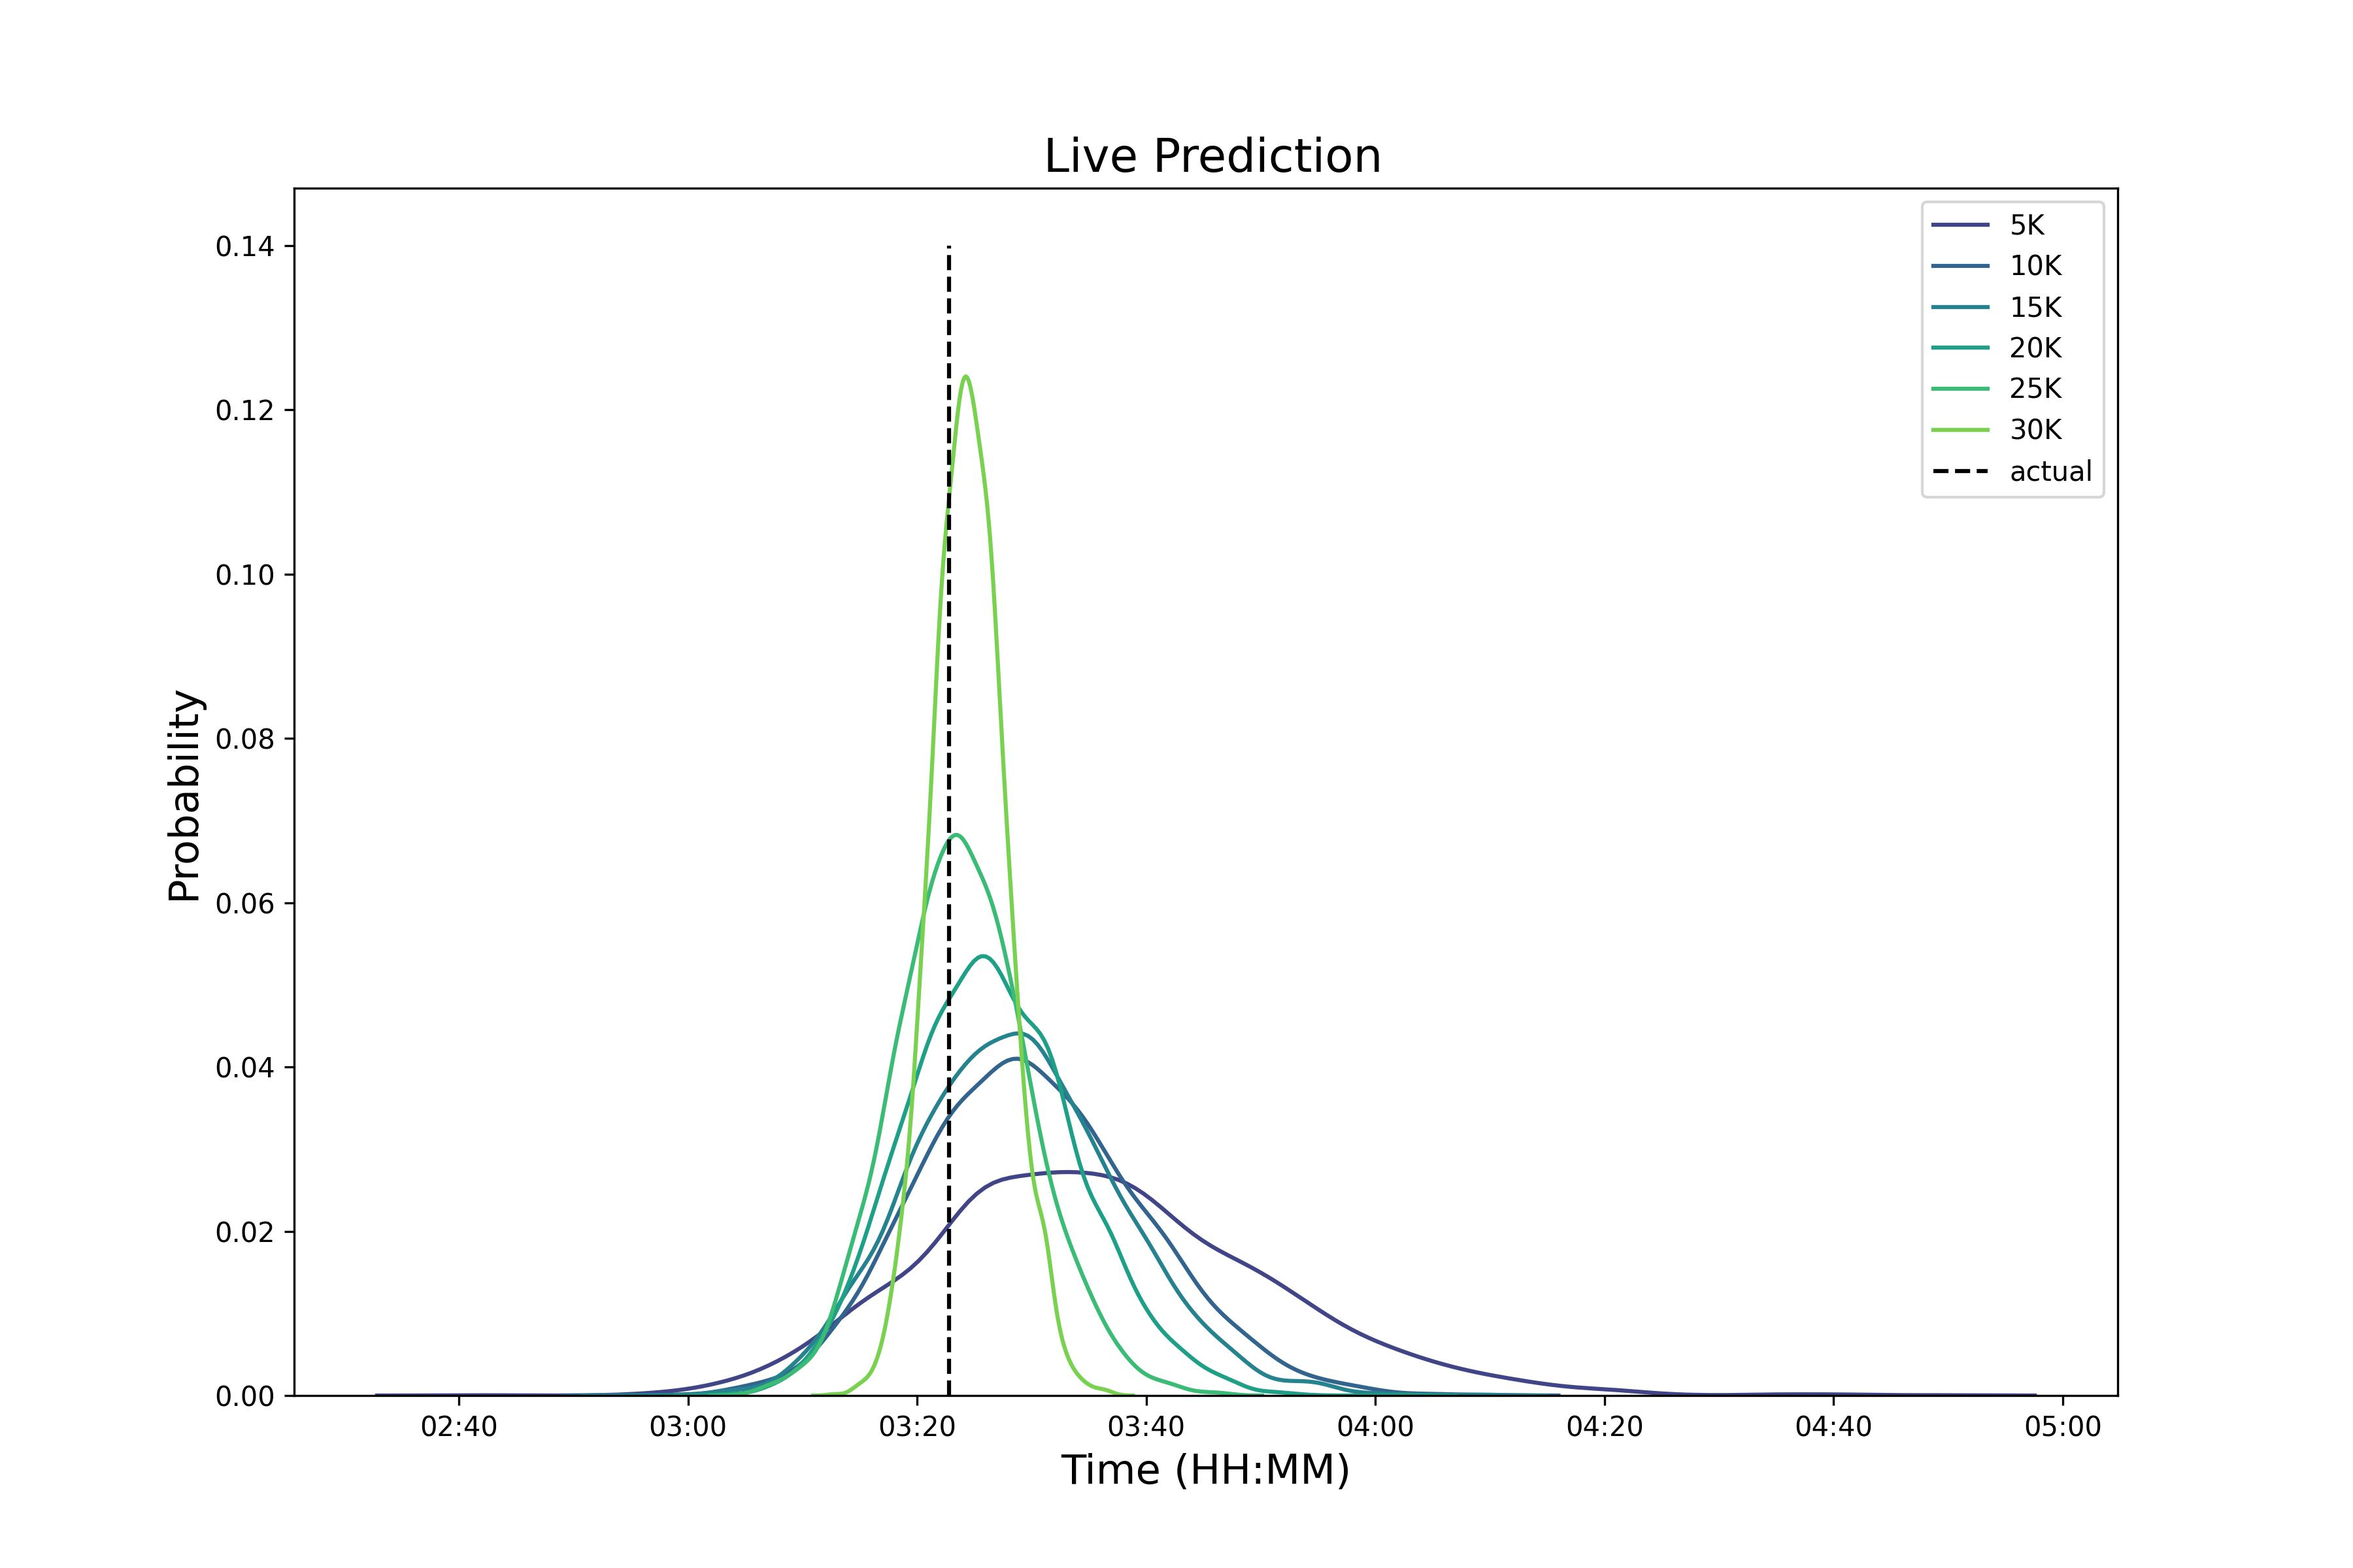
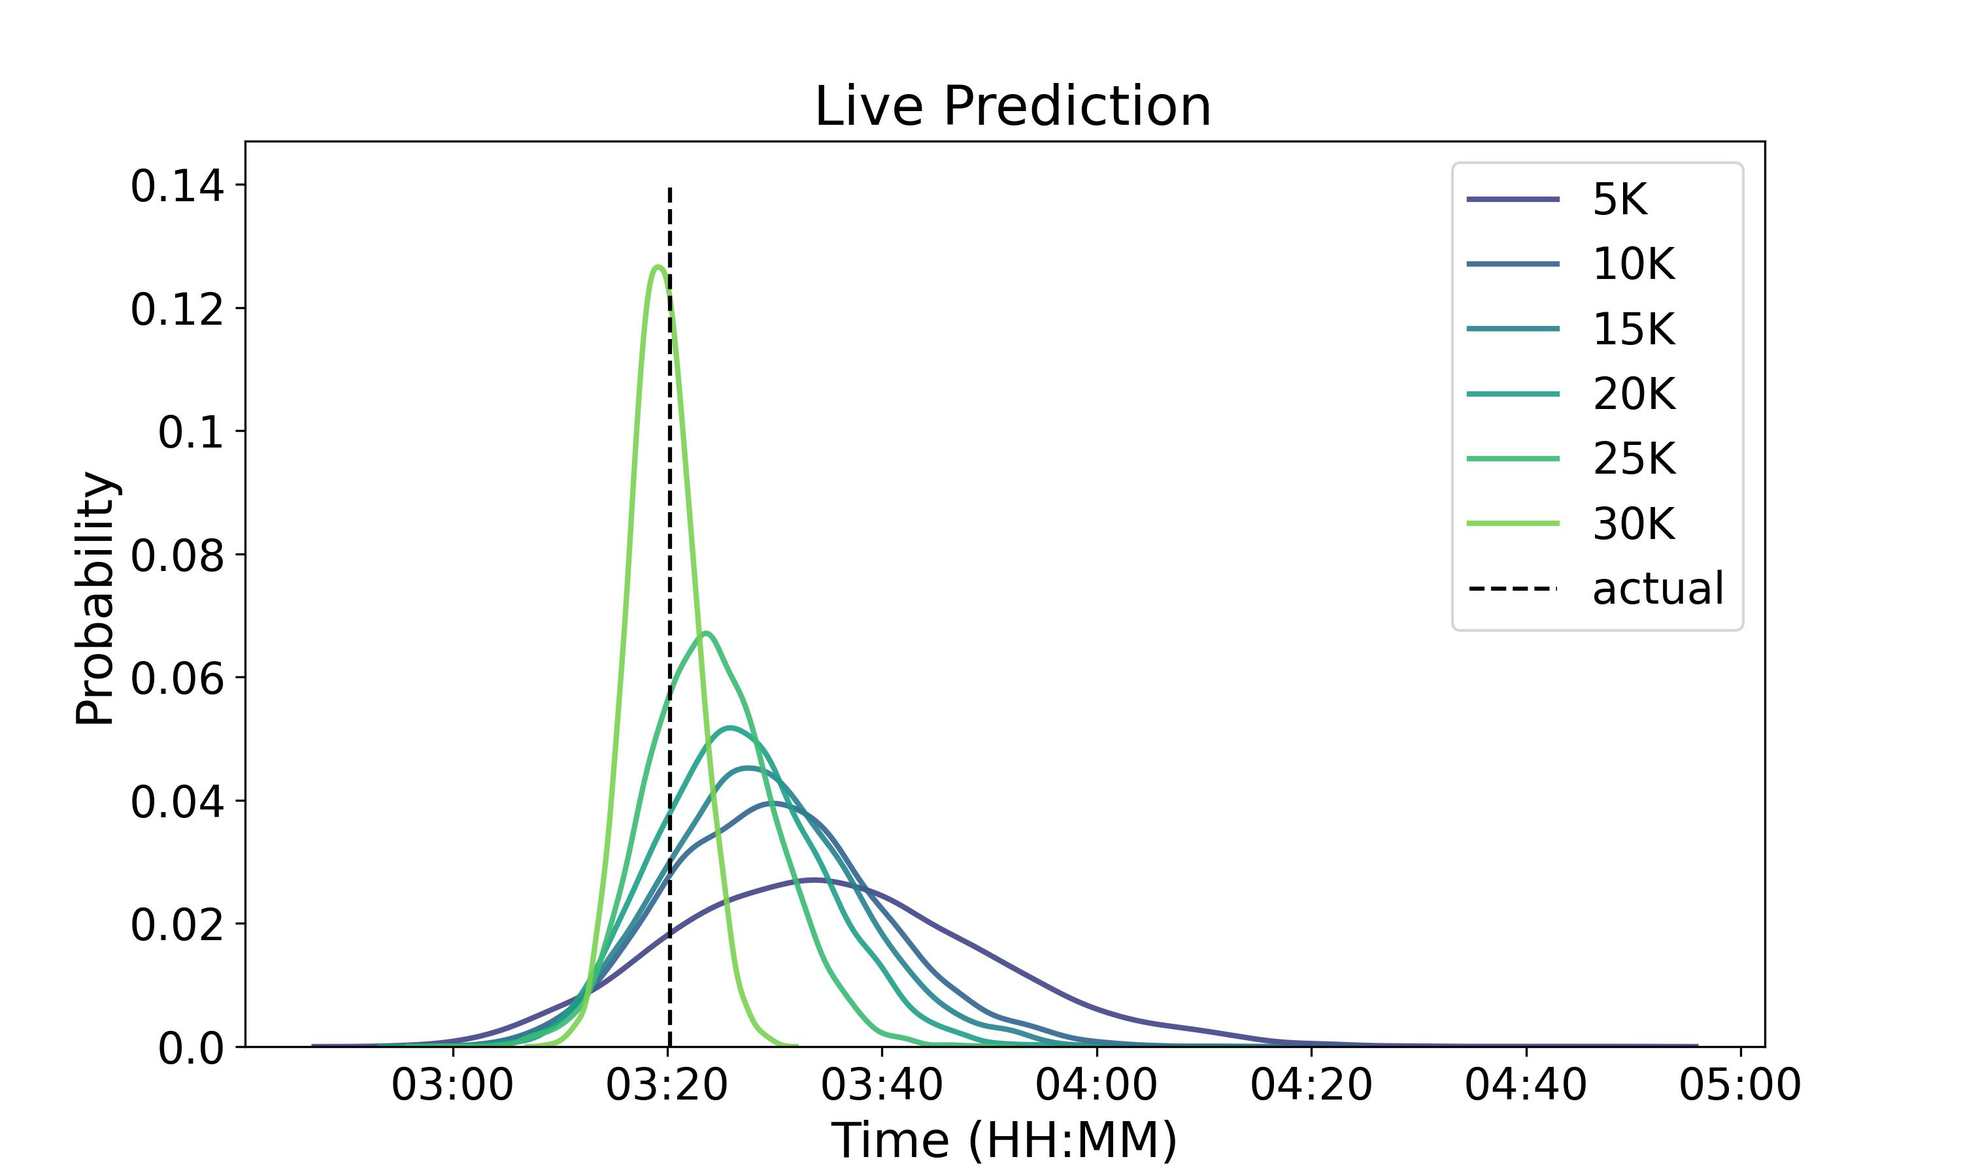
label sizes for live plots

diff --git a/race_class.py b/race_class.py
@@ -96,7 +96,7 @@ def get_from_info(
     marks = ["5K", "10K", "15K", "20K", "25K", "30K", "35K", "40K"]
     shows = [m for m in marks if m in list(race.get_stored_paces()["dist"])]
     shows = [m for m in shows if m in show]
-    fig = plt.figure(figsize=(12, 8))
+    fig = plt.figure(figsize=(10, 6))
 
     p_array = race.posterior_array(shows)
     percentile_info = table_info(p_array, show=shows)
@@ -107,18 +107,21 @@ def get_from_info(
         info = percentile_info[dist]
         info_strings = (dist, f'{info["mean"]}', f'{info["lower50"]}-{info["upper50"]}', f'{info["lower80"]}-{info["upper80"]}', f'{info["lower95"]}-{info["upper95"]}')
         table.append(info_strings)
-        sns.kdeplot(p_array[i], color=colors[i], label=dist)
+        sns.kdeplot(p_array[i], color=colors[i], label=dist, linewidth=2, alpha=0.9)
 
 
     x_labels = plt.xticks()[0]
-    plt.xticks(x_labels, [int_to_str_time(60 * t, no_secs=True) for t in x_labels])
-    plt.xlabel("Time (HH:MM)", fontsize=15)
-    plt.ylabel("Probability", fontsize=15)
-    plt.title(f"{name} Live Prediction", fontsize=17)
+    y_labels = plt.yticks()[0]
+    plt.xticks(x_labels, [int_to_str_time(60 * t, no_secs=True) for t in x_labels], fontsize=16)
+    plt.yticks(y_labels, [round(float(y), 3) for y in y_labels], fontsize=16)
+    
+    plt.xlabel("Time (HH:MM)", fontsize=18)
+    plt.ylabel("Probability", fontsize=18)
+    plt.title(f"{name} Live Prediction", fontsize=20)
     if actual:
         plt.vlines(actual, 0, plt.yticks()[0].max(), linestyles="dashed", color="black", label="actual")
 
-    plt.legend()
+    plt.legend(fontsize=16)
     plt.savefig("analysis/plots/plot_live.jpg", dpi=300)
     print('done')
     return fig, pd.DataFrame(table, columns=["dist", "median", "range_50", "range_80", "range_95"])
